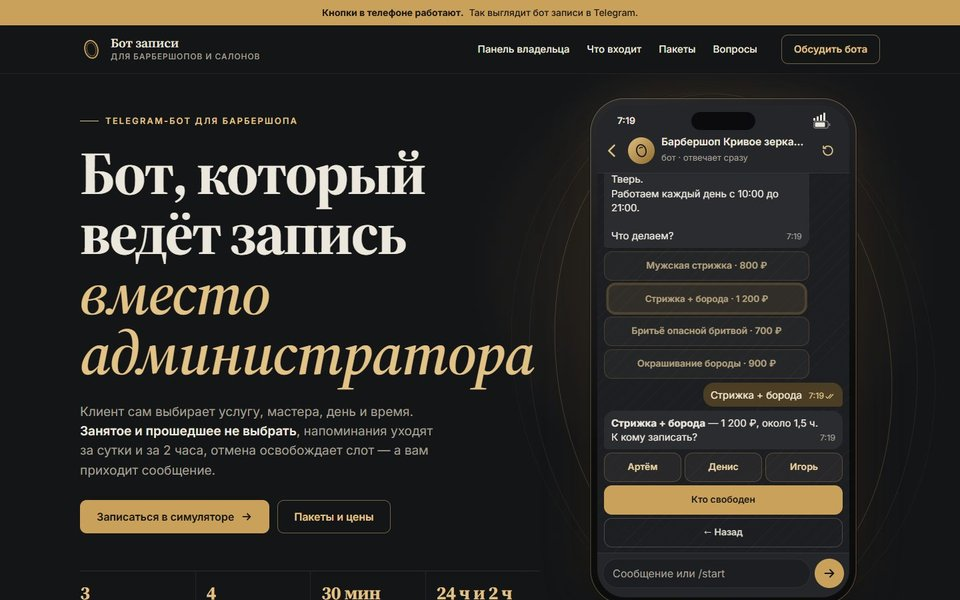
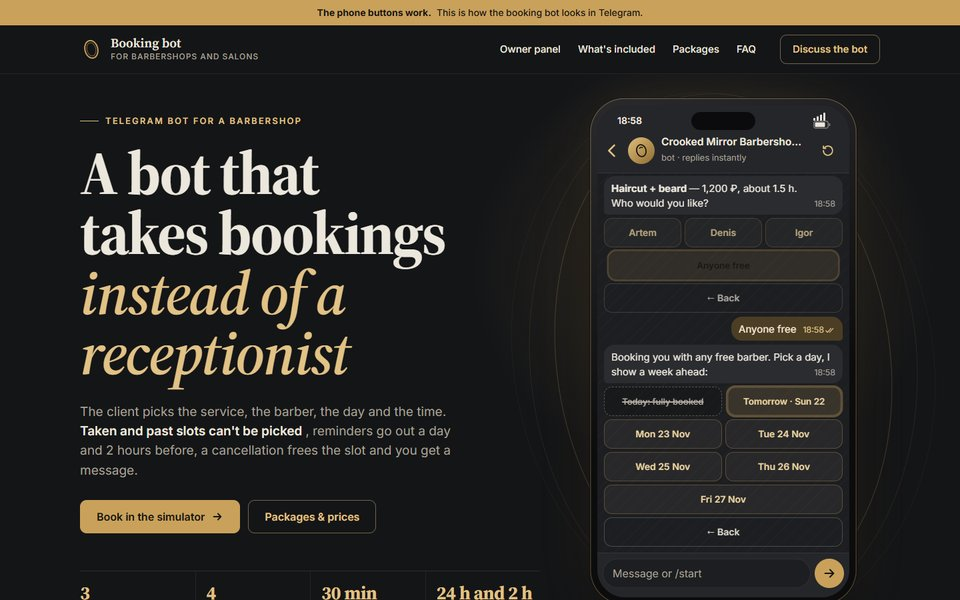
docs: English screenshots of demo sites

diff --git a/README.md b/README.md
@@ -15,9 +15,9 @@ A freelance order radar and showcase toolkit for Russian-speaking freelancers: i
 
 ## Screenshots
 
-Demo sites built with the showcase toolkit (first screen; full-page shots at 1440 and 390 px are in `demos/*/shots`). All names, addresses and phone numbers are fictional.
+Demo sites built with the showcase toolkit (first screen). The sites are made for Russian-speaking clients; these screenshots show them translated to English for this README, and the original full-page shots at 1440 and 390 px are in `demos/*/shots`. All names, addresses and phone numbers are fictional.
 
-| Coffee bar landing | Booking bot for a barbershop | Nail master business card |
+| Coffee bar landing | Booking bot for a barbershop | Nail studio business card |
 |---|---|---|
 | ![Coffee bar landing](docs/screenshots/kofeynya.jpg) | ![Booking bot](docs/screenshots/bot-zapisi.jpg) | ![Business card site](docs/screenshots/master-vizitka.jpg) |
 
